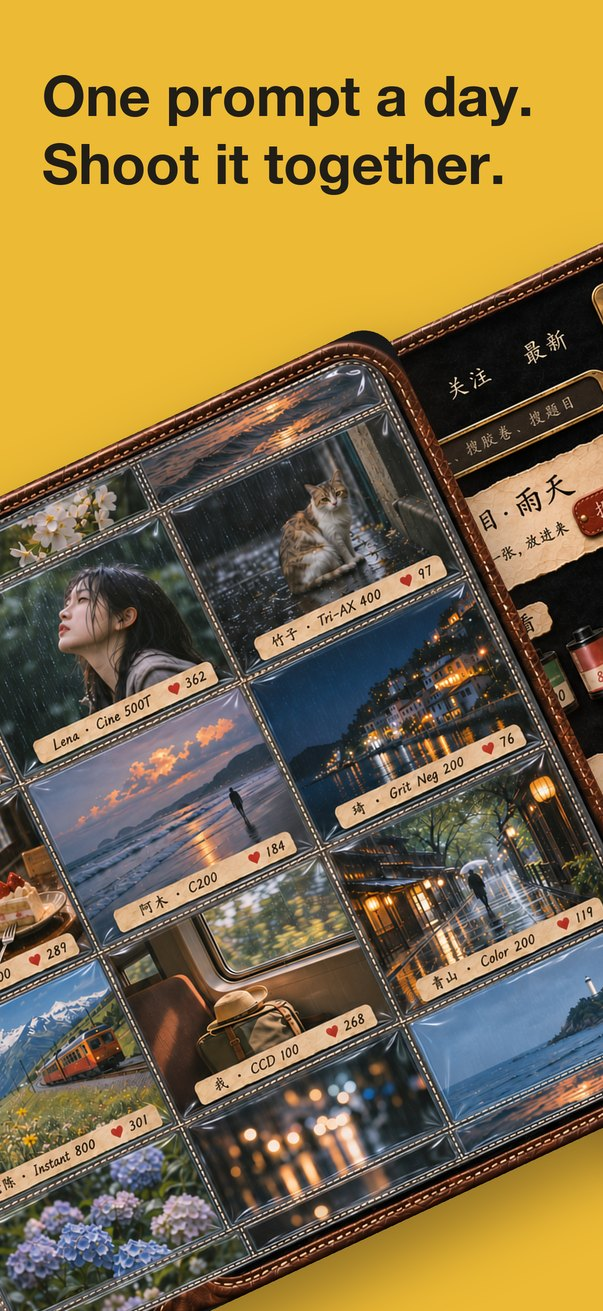
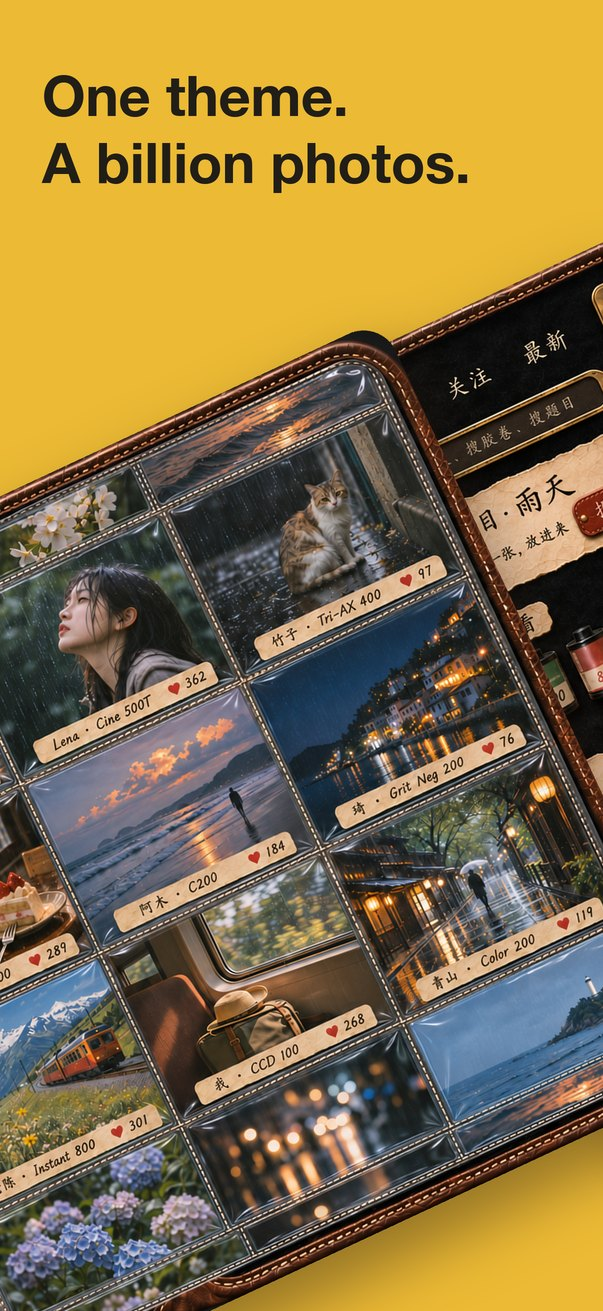
Screenshots page 3 headline: 同一个主题，亿万张照片 (user) / One theme. A billion photos.; queue the board decisions

Changed region(s): [[0.0597, 0.061, 0.8955, 0.1526]]

diff --git a/design/appstore/duo/index.html b/design/appstore/duo/index.html
@@ -59,7 +59,7 @@ body.en .zh,body:not(.en) .en{display:none}
 <h2>整套 8 页 · 按你的意见改</h2>
 <p class="sub">4 非卖品：换成神秘盒子——黑盒子带相机同款黄红条，盒盖掀开，绒布里躺着一卷紫金色的胶卷，火漆封条撕开一半（GPT 画）。6 所见即所得：相机和成片同一个角度，成片压在相机下面像刚吐出来，不再一正一歪，也不是死板地上下摆。7 先试试：回到 App 里真正的滑动对比界面，截成一个满页的竖窗，白线和拖动圆钮在中间；换了一张前后差别大的照片（原图是手机那种平平的发青，Natura 1600 后浓郁暖调）。8 一键直达：去掉桌面图标，只留 Dock（相册、设置、信息、音乐，没有相机）。点按钮切中文 / English。</p>
 
-<div class="row" style="grid-template-columns:repeat(auto-fill,minmax(130px,1fr))"><figure><img class="zh" src="s9_1_zh.jpg" alt="不是 iPhone，是胶片相机"><img class="en" src="s9_1_en.jpg" alt="不是 iPhone，是胶片相机"><figcaption>1 · 不是 iPhone，是胶片相机</figcaption></figure><figure><img class="zh" src="s9_2_zh.jpg" alt="换一卷，换一种生活"><img class="en" src="s9_2_en.jpg" alt="换一卷，换一种生活"><figcaption>2 · 换一卷，换一种生活</figcaption></figure><figure><img class="zh" src="s9_3_zh.jpg" alt="社区"><img class="en" src="s9_3_en.jpg" alt="社区"><figcaption>3 · 社区（标题占位）</figcaption></figure><figure><img class="zh" src="s9_4_zh.jpg" alt="非卖品（神秘盒子）"><img class="en" src="s9_4_en.jpg" alt="非卖品（神秘盒子）"><figcaption>4 · 非卖品（同款拼色卷，未拆封）</figcaption></figure><figure><img class="zh" src="s9_5_zh.jpg" alt="军火库"><img class="en" src="s9_5_en.jpg" alt="军火库"><figcaption>5 · 军火库</figcaption></figure><figure><img class="zh" src="s9_6_zh.jpg" alt="所见即所得（新）"><img class="en" src="s9_6_en.jpg" alt="所见即所得（新）"><figcaption>6 · 所见即所得（新）</figcaption></figure><figure><img class="zh" src="s9_7_zh.jpg" alt="买之前，先试试（新）"><img class="en" src="s9_7_en.jpg" alt="买之前，先试试（新）"><figcaption>7 · 买之前，先试试（红车被白线切开）</figcaption></figure><figure><img class="zh" src="s9_8_zh.jpg" alt="两种方式，一键直达（新）"><img class="en" src="s9_8_en.jpg" alt="两种方式，一键直达（新）"><figcaption>8 · 两种方式，一键直达（侧转，按键发光）</figcaption></figure></div>
+<div class="row" style="grid-template-columns:repeat(auto-fill,minmax(130px,1fr))"><figure><img class="zh" src="s9_1_zh.jpg" alt="不是 iPhone，是胶片相机"><img class="en" src="s9_1_en.jpg" alt="不是 iPhone，是胶片相机"><figcaption>1 · 不是 iPhone，是胶片相机</figcaption></figure><figure><img class="zh" src="s9_2_zh.jpg" alt="换一卷，换一种生活"><img class="en" src="s9_2_en.jpg" alt="换一卷，换一种生活"><figcaption>2 · 换一卷，换一种生活</figcaption></figure><figure><img class="zh" src="s9_3_zh.jpg" alt="社区"><img class="en" src="s9_3_en.jpg" alt="社区"><figcaption>3 · 同一个主题，亿万张照片</figcaption></figure><figure><img class="zh" src="s9_4_zh.jpg" alt="非卖品（神秘盒子）"><img class="en" src="s9_4_en.jpg" alt="非卖品（神秘盒子）"><figcaption>4 · 非卖品（同款拼色卷，未拆封）</figcaption></figure><figure><img class="zh" src="s9_5_zh.jpg" alt="军火库"><img class="en" src="s9_5_en.jpg" alt="军火库"><figcaption>5 · 军火库</figcaption></figure><figure><img class="zh" src="s9_6_zh.jpg" alt="所见即所得（新）"><img class="en" src="s9_6_en.jpg" alt="所见即所得（新）"><figcaption>6 · 所见即所得（新）</figcaption></figure><figure><img class="zh" src="s9_7_zh.jpg" alt="买之前，先试试（新）"><img class="en" src="s9_7_en.jpg" alt="买之前，先试试（新）"><figcaption>7 · 买之前，先试试（红车被白线切开）</figcaption></figure><figure><img class="zh" src="s9_8_zh.jpg" alt="两种方式，一键直达（新）"><img class="en" src="s9_8_en.jpg" alt="两种方式，一键直达（新）"><figcaption>8 · 两种方式，一键直达（侧转，按键发光）</figcaption></figure></div>
 <h2>内屏导航 · 实际用起来的样子</h2>
 <p class="sub">每个方案两张：左边停在“胶卷”页，右边切到“社区”页。导航固定在左页最下面不动，切页时只有上面的内容换：胶卷页左边是胶卷，社区页左边是题目、分类和打卡；右页都是内容。右边的“小皮子”书签已经去掉。都是 GPT 画的。</p>
 <h2>A · 黄铜拨档铭牌：拨杆从“胶卷”拨到了最右边“社区”，选中的字变红</h2>

diff --git a/project/QUEUE.md b/project/QUEUE.md
@@ -153,3 +153,5 @@
 - 自动推进停（11/24 00:4x）：新导航走查无问题。剩下的都等你：①社区第三版（样张页最上面）方向行不行；②每日限免要不要进 v1；③限定胶卷挑两卷（看板 limited-films，7/14 天奖励要用）；④Duo 横屏截图意见；⑤真机试新导航。
 - ✔ 看板回答（我之前漏读）：v1-rewards = 7/14 天奖励进 v1；v1-rewards-rolls = 送限定胶卷；limited-films = 五卷全要（暮紫、火叶、落日红、错洗、光晕）。先按推荐 7 天送暮紫、14 天送火叶（看板 limited-7-14 可改），其余三卷留给节日或更长打卡。下一项任务：做这两卷限定胶卷（调色 + GPT 画罐子）和 7/14 天奖励。
 - 看板新加：daily-free、community-v3、shots-p3-title、shots-duo、limited-7-14。
+- ✔ 11/24 看板：每日限免进 v1；社区第三版方向可以；7 天暮紫、14 天火叶；Duo 横屏截图可以；第 3 页标题“同一个主题，亿万张照片”（英文 One theme. / A billion photos.）。
+- 接下来按顺序做：①两卷限定胶卷（暮紫、火叶：调色 + GPT 画罐子）+ 7/14 天奖励；②每日限免。
